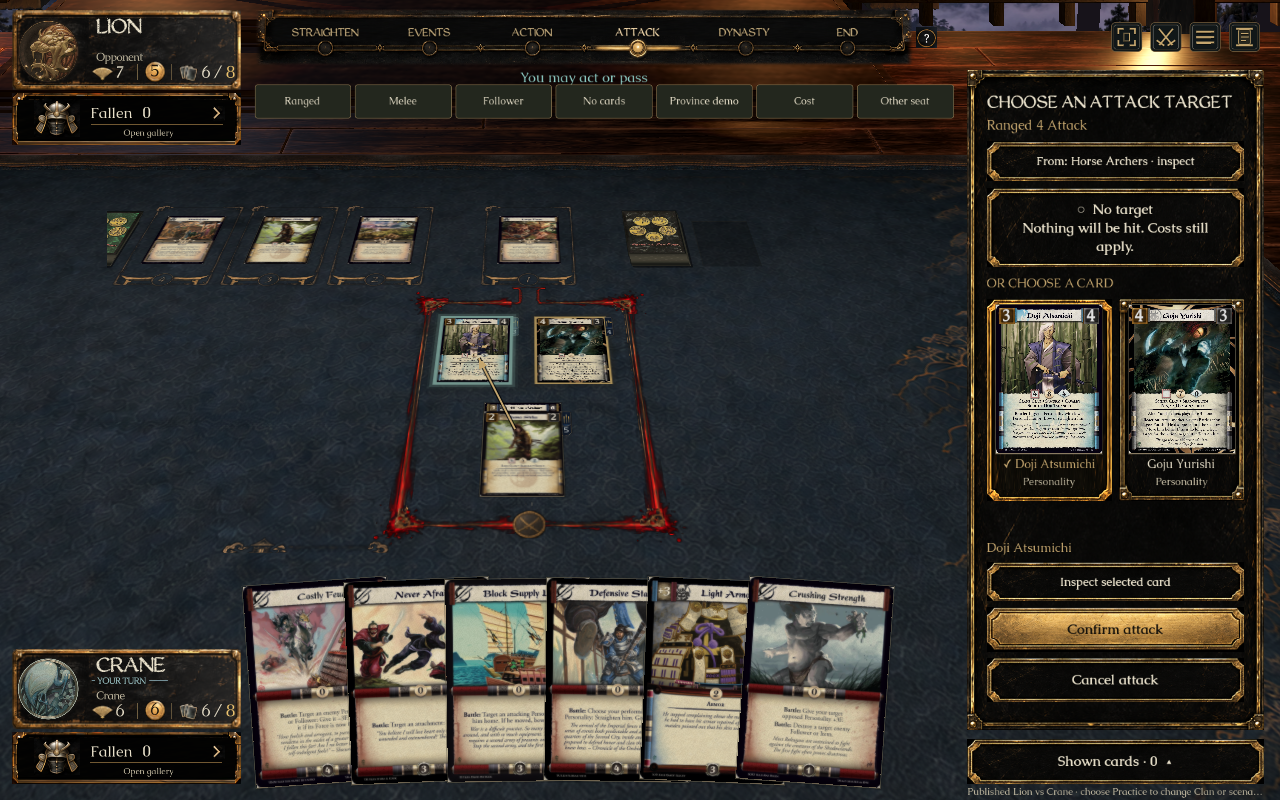
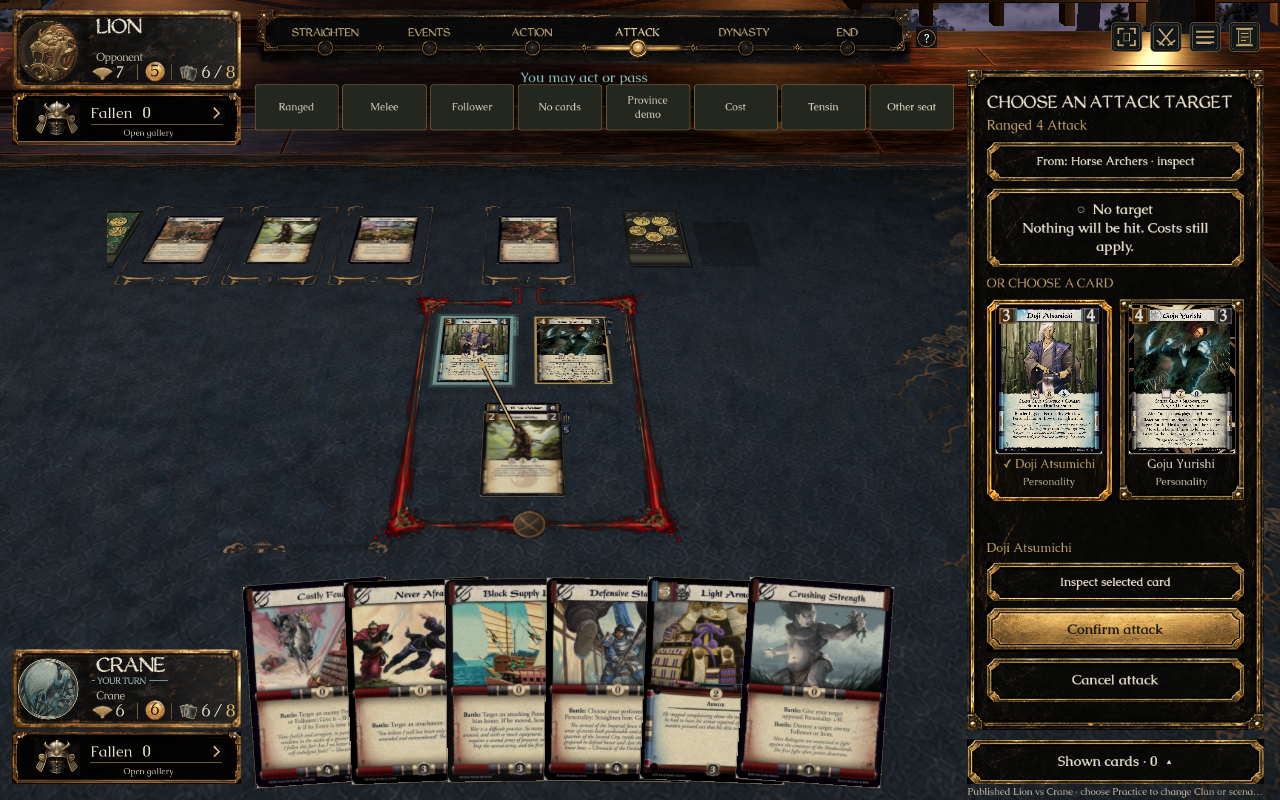
Verify performing-Follower attacks and polish review labels (#355)

Changed region(s): [[0.2188, 0.0938, 0.75, 0.1875]]

diff --git a/src/L5R.Client/Main.AttackTargetCapture.cs b/src/L5R.Client/Main.AttackTargetCapture.cs
@@ -18,9 +18,11 @@ public partial class Main
         state.Phase=Phase.Battle;state.ActivePlayerId=state.PriorityPlayerId=0;state.PendingChoice=null;
         state.CurrentBattleProvince=0;state.UnresolvedBattlefields=[0];
         var own=SupportFixtureCard(state,3636,0,Zone.Battlefield,0);
-        var source=mode=="province"?SupportFixtureCard(state,"training-province-attacker",0,Zone.Battlefield,0):
+        var source=mode=="tensin"?SupportFixtureCard(state,3332,0,Zone.Battlefield,0):mode=="province"?SupportFixtureCard(state,"training-province-attacker",0,Zone.Battlefield,0):
             mode=="cost"?state.Cards[state.Players[0].StrongholdId]:SupportFixtureCard(state,mode=="melee"?7450:3456,0,Zone.Attached,0);
         if(source.Zone==Zone.Attached)source.AttachedTo=own.Id;
+        if(mode=="tensin")
+            foreach(var definition in new[]{3456,7450})SupportFixtureCard(state,definition,0,Zone.Attached,0).AttachedTo=source.Id;
         if(mode=="cost")source.DefinitionId="oracle-l5r-1218";
         _attackSource=source.Id;_attackCard=_attackReactiveCard=_attackFollower=_attackFollowedHost="";
         if(mode!="empty")
@@ -45,7 +47,7 @@ public partial class Main
         if(_root.GetNodeOrNull<Control>("AttackReviewControls") is {} old){_root.RemoveChild(old);old.QueueFree();}
         var row=new HBoxContainer{Name="AttackReviewControls",ZIndex=91};row.AddThemeConstantOverride("separation",5);
         var buttons=new List<Button>();
-        foreach(var (label,mode) in new[]{("Ranged","ranged"),("Melee","melee"),("Follower","follower"),("No cards","empty"),("Province demo","province"),("Cost","cost")})
+        foreach(var (label,mode) in new[]{("Ranged","ranged"),("Melee","melee"),("Follower","follower"),("No cards","empty"),("Province demo","province"),("Cost","cost"),("Tensin","tensin")})
             buttons.Add(SidebarSkin.Button(label,()=>_=RunAttackReview(()=>PrepareAttackReview(mode))));
         buttons.Add(SidebarSkin.Button("Other seat",()=>_session.SwitchPracticeSeat()));_attackReviewButtons=buttons.ToArray();
         foreach(var button in buttons){button.CustomMinimumSize=new(0,44);button.AddThemeFontSizeOverride("font_size",14);button.SizeFlagsHorizontal=Control.SizeFlags.ExpandFill;row.AddChild(button);}
@@ -123,8 +125,23 @@ public partial class Main
             await PrepareAttackReview("cost");var performer=_chosen!.Command!.PerformerId!;var honor=Self.Honor;
             await SupportClick(AttackNoTargetButton());await SupportCapture("-cost");await ConfirmAttackTarget();
             SupportRequire(_attackFixture.State.Cards[performer].Bowed&&Self.Honor==honor&&_attackFixture.State.PendingAttack is null,"No target skipped its bow cost or awarded card-target Honor");
+            foreach(var targetCard in new[]{false,true})
+            {
+                await PrepareAttackReview("tensin");
+                var offered=Actions.Where(a=>a.Enabled&&a.CardId==_attackSource&&a.Command?.AbilityId=="tensin-follower-attack").ToArray();
+                SupportRequire(offered.Length==2&&offered.All(a=>a.NoTarget&&a.AlternativeCost is null),"Tensin fixture must expose both performing Followers with a fixed bow cost");
+                var firstPerformer=offered[0].Command!.PerformerId;Choose(offered[1]);await EventFrames(12);
+                performer=_chosen!.Command!.PerformerId!;
+                SupportRequire(performer!=firstPerformer&&_attackChoice==AttackChoice.Unselected&&_paymentConfirm!.Disabled,"Changing the performing Follower retained a target draft");
+                if(targetCard)await SupportClick(AttackCardFace(_attackCard));else await SupportClick(AttackNoTargetButton());
+                CheckAttackConfirmation();
+                SupportRequire(View.Version==0&&!_attackFixture.State.Cards[performer].Bowed&&_chosen!.Command!.TargetId==(targetCard?_attackCard:null),"Selecting Tensin's target paid the cost early or lost the target");
+                await SupportCapture(targetCard?"-tensin-card":"-tensin-no-target");await ConfirmAttackTarget();
+                SupportRequire(View.Version==1&&_attackFixture.State.Cards[performer].Bowed&&!_attackFixture.State.Cards[firstPerformer!].Bowed&&_attackFixture.State.PendingAttack is null,"Tensin bowed the wrong Follower or opened an unexpected reaction");
+                SupportRequire(_attackFixture.State.Cards[_attackCard].Zone==(targetCard?Zone.Dead:Zone.Battlefield),"Tensin's explicit target was not respected");
+            }
             GD.Print(renderOnly?"ATTACK_TARGET_RENDER_PASS: rendering, sidebar controls and real-engine outcomes checked; native table focus/input and desktop launcher acceptance remain pending.":
-                "ATTACK_TARGET_PASS: native no-target/card/province choices, full faces, table and keyboard input, explicit confirm, cancel/seat reset, Follower legality, empty/Melee, real costs and correct reaction behavior.");GetTree().Quit();
+                "ATTACK_TARGET_PASS: native no-target/card/province choices, full faces, table and keyboard input, explicit confirm, cancel/seat reset, Follower legality, empty/Melee, real costs, Tensin fixed-cost/performer regression and correct reaction behavior.");GetTree().Quit();
         }
         catch(Exception e){await SupportCapture("-failure");GD.PushError(e.ToString());GetTree().Quit(1);}
     }

diff --git a/src/L5R.Client/Main.AttackTargets.cs b/src/L5R.Client/Main.AttackTargets.cs
@@ -48,7 +48,8 @@ public partial class Main
         var action=_chosen!;var command=action.Command!;_guide.Visible=false;
         var heading=Palette.Text("CHOOSE AN ATTACK TARGET",19,title:true);
         heading.AutowrapMode=TextServer.AutowrapMode.WordSmart;heading.SizeFlagsHorizontal=Control.SizeFlags.ExpandFill;_sidebarHeader.AddChild(heading);
-        _inspector.AddChild(Palette.Wrapped(action.Label,18,Palette.Gold));
+        var actionLabel=command.PerformerId is {} performerId?action.Label.Replace($" ({performerId})","",StringComparison.Ordinal):action.Label;
+        _inspector.AddChild(Palette.Wrapped(actionLabel,18,Palette.Gold));
         if(FindCard(action.CardId??command.CardId??"") is {Definition:not null} source)
         {
             var sourceButton=SidebarSkin.Button("From: "+source.Definition.Name+" · inspect",()=>InspectAttackCard(source));

diff --git a/docs/handoffs/2026-09-21-attack-targets-review.md b/docs/handoffs/2026-09-21-attack-targets-review.md
@@ -6,7 +6,7 @@ Eighth approved UI preview: A’s explicit choices plus B’s full-card previews
 
 On Alfredo’s Mac: [L5R Attack Targets — Review.app](../../artifacts/L5R%20Attack%20Targets%20-%20Review.app). Portable entry: `Review Attack Targets.command`.
 
-The app builds this checkout and opens Horse Archers’ real Ranged Attack without a preselected target. Above-table controls prepare **Ranged**, **Melee**, **Follower**, **No cards**, **Province demo**, **Cost**, and **Other seat**. They are review-only shortcuts to real engine decisions, not new gameplay actions. The province case explicitly uses the existing training definition; it is not added to playable decks. The other cases use published cards placed in the required zones. No fetch, branch change or merge occurs.
+The app builds this checkout and opens Horse Archers’ real Ranged Attack without a preselected target. Above-table controls prepare **Ranged**, **Melee**, **Follower**, **No cards**, **Province demo**, **Cost**, **Tensin**, and **Other seat**. They are review-only shortcuts to real engine decisions, not new gameplay actions. The province case explicitly uses the existing training definition; it is not added to playable decks. The other cases use published cards placed in the required zones. No fetch, branch change or merge occurs.
 
 Recreate the local bundle with:
 
@@ -22,7 +22,8 @@ python3 tools/create-review-launcher.py 'Review Attack Targets.command' 'L5R Att
 4. **Follower** offers the legal Follower rather than its protected host. **No cards** still permits No target. **Melee** uses the same explicit flow.
 5. **Province demo** additionally offers **This battlefield’s province**. Select it in the sidebar or by clicking the current defending province on the table. The command names the province, not its Dynasty card. Switching back to a card clears the province choice. Confirming the province reduces its strength through the training ability.
 6. **Cost** prepares Carpenter Castle’s Attack. Confirming No target still pays the real bow cost; it does not earn the card-target Honor benefit. Costs remain authoritative in the engine.
-7. **Other seat** removes the unfinished choice. Returning requires a new explicit selection. Check keyboard selection, the smaller window and reduced motion; confirmation stays visible while the option list scrolls.
+7. **Tensin** prepares the Attack performed by a Follower in his unit. Choose No target or a card, then confirm. The performing Follower bows only when the Attack is submitted. To review the other Follower, cancel, select Tensin and choose the action naming that Follower. This is a fixed bow cost; there is no alternative-cost step.
+8. **Other seat** removes the unfinished choice. Returning requires a new explicit selection. Check keyboard selection, the smaller window and reduced motion; confirmation stays visible while the option list scrolls.
 
 ## Approved design and authority
 
@@ -32,7 +33,7 @@ The existing lacquer atlas, full period scans and Caudex/WeatheredQuill implemen
 
 `NoTarget`, `TargetIds` and `Provinces` alone supply choices. All currently legal Attack abilities expose `NoTarget`; movement retains its separate `Movement` flow and is never classified from `Provinces` alone. Choosing an option sets mutually exclusive TargetId/Province fields, refreshes the engine’s quoted payment suggestions, and remains local until confirmation. Ordinary actions retain their existing target flow. No Core, server, printing or wire-format behavior is changed here.
 
-The existing version/disconnection guards discard stale drafts; a seat change also removes this task’s selection. Full faces and inspection use public CardView data. Province arrows point at the battlefield’s province; no-target choices draw no arrow. Alternative-cost and Gold handling use the existing shared panels.
+The existing version/disconnection guards discard stale drafts; a seat change also removes this task’s selection. Full faces and inspection use public CardView data. Province arrows point at the battlefield’s province; no-target choices draw no arrow. Gold handling uses the existing shared panel; fixed non-Gold costs remain part of the engine action.
 
 ## Verified evidence
 
@@ -41,6 +42,7 @@ The existing version/disconnection guards discard stale drafts; a seat change al
 - The first locked-desktop run failed the real focus guard, which was preserved. A separate renderer/controller path reports `ATTACK_TARGET_RENDER_PASS` only and does not count as native table-input acceptance. Full native runs subsequently passed after desktop access returned.
 - Initial visual inspection found that the heading and full-card minimum widths pushed the sidebar past the window. Wrapped heading text and fitted card widths corrected it; both final sizes and review navigation were visually inspected.
 - Existing Core targeted-action/reaction suite: **30/30 passed**. Client/transport suite: **11/11 passed**, including the new server-envelope/client projection and strict outgoing-command cases for No target, card and province. This is serialization/contract evidence, not an external multiplayer playtest.
+- Final normal and reduced-review checks also passed Tensin’s fixed-cost Attack through either performing Follower, preserving No target/card choice and bowing only the selected performer on submission. The test selects the second engine offer through the controller, then exercises native target/confirmation input. The actual Mac launcher was reopened and Tensin’s review button, No target and confirmed bow cost were checked through desktop clicks. Internal performer IDs are omitted from the player-facing Attack label.
 - Movement’s existing `1280x800 reduced-review-check` passed again on this combined implementation, covering the shared table/target routing, attachments, Hawado cost distinction and partial negation.
 - The actual Mac `.app` launched directly to the prepared choice. Desktop clicks verified unconfirmed full-card selection, full-size inspection and return, No target clearing the card arrow, review navigation and actual table province selection. The game was then closed cleanly.
 - All eight prepared Mac bundles were generated in this combined checkout and checked to point at their matching command here. The earlier seven actual launcher checks remain recorded in their task handoffs; Copy’s final desktop check was completed with Movement. The generic Latest launcher was refreshed.
